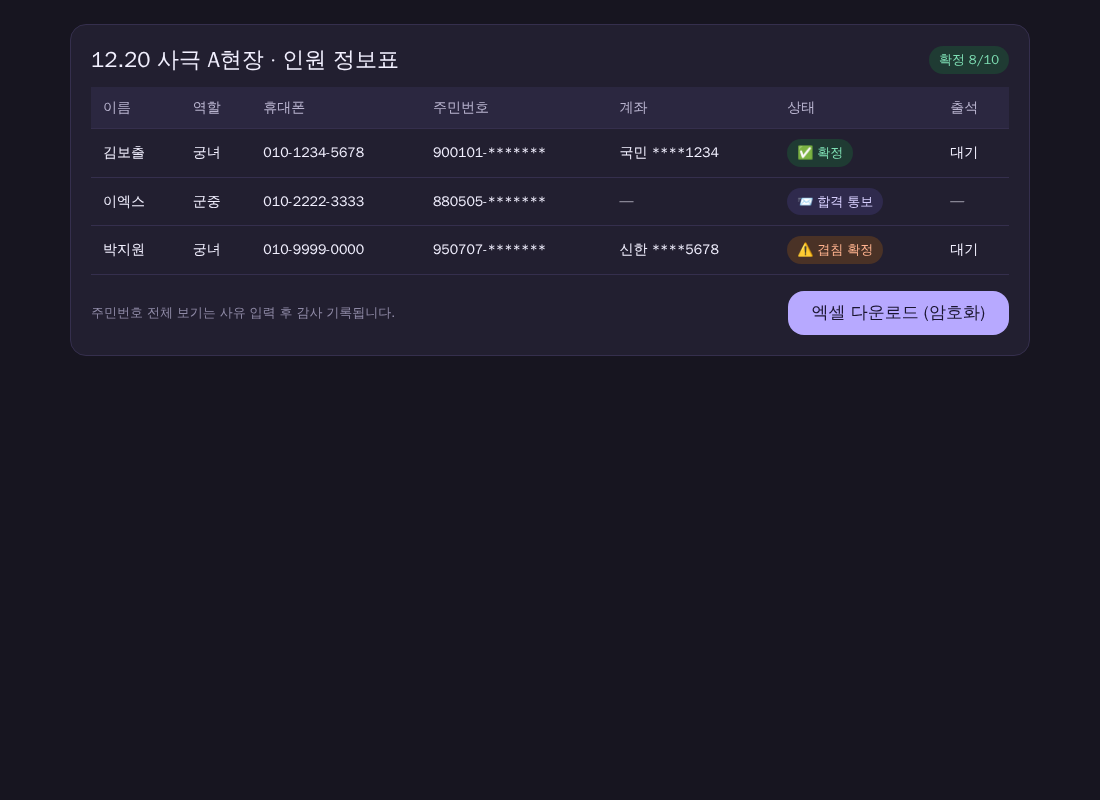
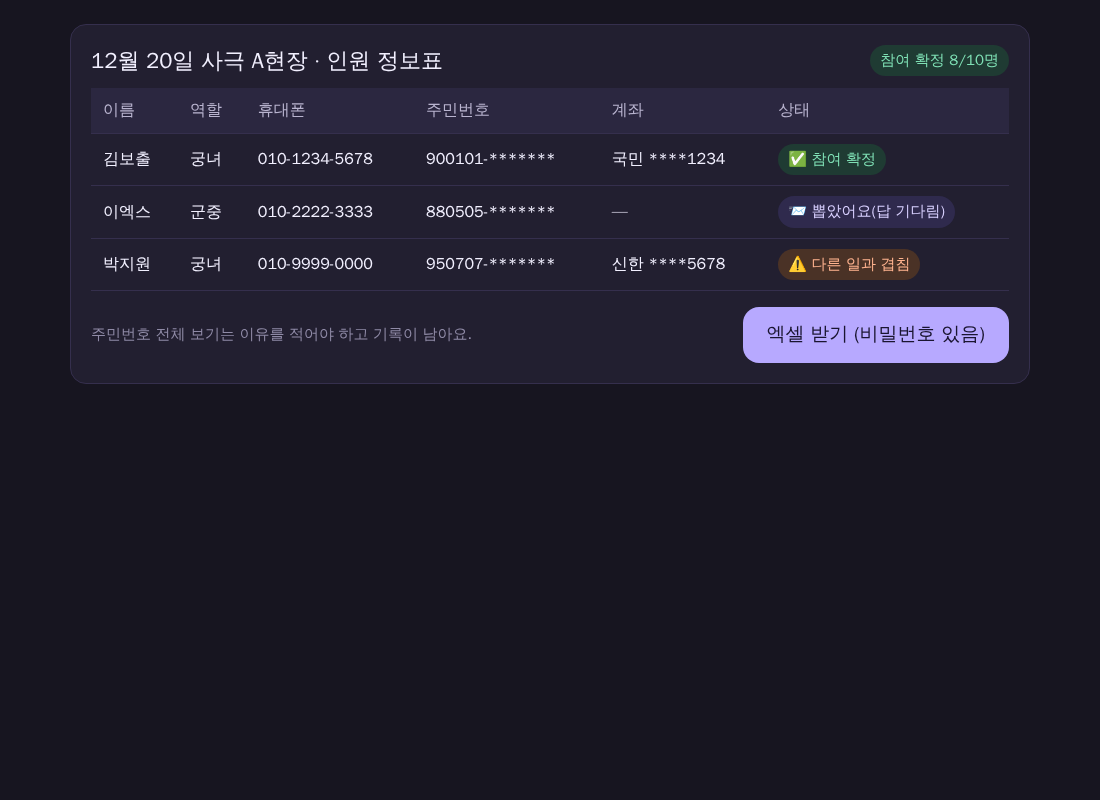
v1.3-b: 합격서 금액 삭제, 시간은 예상(±2h/±4h)·변동 안내, 40~50대 쉬운 말 UI, 가성비/편의성 계획(19), 초기 세션 핵심(20)
Claude-Session: https://claude.ai/code/session_01MWSX96BwTmBifcXMLBXVbn

diff --git a/docs/mockups/app.html b/docs/mockups/app.html
@@ -1,1 +1,1 @@
-<!doctype html><html lang="ko" data-theme="light"><head><meta charset="utf-8"><meta name="viewport" content="width=device-width,initial-scale=1"><title>보조출연 헬프 앱 목업</title><link rel="stylesheet" href="tokens.css"></head><body><main class="grid"><section class="phone" aria-label="🏠 오늘의 공고"><div class="top">🏠 오늘의 공고</div><div class="sub">보조출연 헬프 · 서울 · 12월 20일</div><div class="body"><div class="card"><div class="row"><span class="h">사극 A현장 (가제)</span><span class="chip">모집 3명</span></div><div class="cap" style="margin-top:4px">📍 경기 양주 · 12.20 06:00 집합</div><div class="pay" style="margin-top:12px">시급 10,320원 · 8시간 82,560원</div><div style="margin-top:8px;display:flex;gap:6px;flex-wrap:wrap"><span class=chip>🌙 심야</span><span class=chip>🏕 숙박</span></div></div><div class="card"><div class="row"><span class="h">현대극 B (가제)</span><span class="chip">모집 10명</span></div><div class="cap" style="margin-top:4px">📍 서울 마포 · 12.21 13:00</div><div class="row" style="margin-top:12px"><span class="pay">시급 12,000원</span></div></div><div class="card"><span class="chip ok">✅ 업체 승인</span> <span class="cap">비공개 현장은 합격 후 장소가 보여요</span></div></div><div class="tabbar"><span class="on">🏠<br>홈</span><span>🔎<br>찾기</span><span>📅<br>내 일정</span><span>💬<br>메시지</span><span>🙂<br>MY</span></div></section><section class="phone" aria-label="✍ 지원하기"><div class="top">✍ 지원하기</div><div class="sub">1/3 내 정보 확인</div><div class="body"><div class="steps" style="padding:0"><i class="on"></i><i></i><i></i></div><div class="field"><span>이름</span><b>김보출</b></div><div class="field"><span>휴대폰</span><b>010-****-1234</b></div><div class="field"><span>키 · 몸무게</span><b>172cm · 64kg</b></div><div class="field"><span>계좌</span><b>국민 ****1234</b></div><div class="alert">⚠ 12월 20일 14:00 다른 공고와 시간이 가까워요</div></div><div class="cta"><button class="btn">다음 · 현재 사진 📷</button><button class="btn ghost">저장하고 나중에</button></div></section><section class="phone" aria-label="🖋 전자서명"><div class="top">🖋 전자서명</div><div class="sub">3/3 서명하고 제출</div><div class="body"><div class="steps" style="padding:0"><i class="on"></i><i class="on"></i><i class="on"></i></div><div class="sig">여기에 손가락으로 서명해 주세요</div><div class="card cap">서명은 지원서와 함께 증빙으로 보관돼요(기본 5년). 약관 v3 동의</div></div><div class="cta"><button class="btn">제출하기 ✅</button><button class="btn ghost">다시 쓰기</button></div></section><section class="phone" aria-label="🎉 합격했어요"><div class="top">🎉 합격했어요</div><div class="sub">12시간 안에 확정해 주세요</div><div class="body"><div class="card"><div class="h">사극 A현장 (가제)</div><div class="cap">12.20 06:00 집합 · 양주 ○○주차장</div><div class="row" style="margin-top:12px"><span class="pay">82,560원</span><span class="chip warn">⏰ 11시간 남음</span></div></div><div class="card cap">근로계약서는 현장에서 직접 작성해요. 이 서비스에서는 지원서와 합격서만 보관해요.</div></div><div class="cta"><button class="btn">✅ 확정하기</button><button class="btn ghost">📄 합격서 보기</button></div></section><section class="phone" aria-label="📄 합격서"><div class="top">📄 합격서</div><div class="sub">합격 통보 2026.12.18 09:12</div><div class="body"><div class="card"><div class="cap">업체</div><div class="h">보출A</div><hr style="border:0;border-top:1px solid var(--line);margin:12px 0"><div class="row"><span class="cap">현장</span><b>사극 A현장 (가제)</b></div><div class="row"><span class="cap">일정</span><b>12.20 06:00~18:00</b></div><div class="row"><span class="cap">역할</span><b>궁녀</b></div><div class="row"><span class="cap">보수</span><b>시급 10,320원 (8시간 82,560원)</b></div></div><div class="card cap">이 문서는 근로계약서가 아니에요. 현장에서 별도 작성해요.</div></div><div class="cta"><button class="btn">PDF로 저장 ⬇</button></div></section><section class="phone" aria-label="📲 출퇴근 QR"><div class="top">📲 출퇴근 QR</div><div class="sub">현장에서 업체 직원에게 보여주세요</div><div class="body"><div class="card" style="text-align:center"><div class="qr" role="img" aria-label="출퇴근 QR"></div><span class="chip ok">🔄 30초마다 바뀌어요</span><div class="cap" style="margin-top:8px">세션이 열려 있을 때만 표시돼요</div></div></div><div class="tabbar"><span class="on">🏠<br>홈</span><span>🔎<br>찾기</span><span>📅<br>내 일정</span><span>💬<br>메시지</span><span>🙂<br>MY</span></div></section></main></body></html>
+<!doctype html><html lang="ko" data-theme="light"><head><meta charset="utf-8"><meta name="viewport" content="width=device-width,initial-scale=1"><title>보조출연 헬프 앱 목업</title><link rel="stylesheet" href="tokens.css"></head><body><main class="grid"><section class="phone" aria-label="🏠 일할 곳 찾기"><div class="top">🏠 일할 곳 찾기</div><div class="sub">12월 20일 · 서울·경기</div><div class="body"><div class="card"><div class="h">사극 A현장 (가제)</div><div class="cap" style="margin-top:4px">📍 경기 양주</div><div style="margin-top:8px"><b>아침 6시쯤 모여요 (±2시간)</b></div><div class="pay" style="margin-top:8px">시급 10,320원 (최저시급)</div><div style="margin-top:8px;display:flex;gap:6px;flex-wrap:wrap"><span class=chip>3명 뽑아요</span><span class=chip>🌙 밤 촬영</span><span class=chip>🏕 숙박</span></div></div><div class="card"><div class="h">현대극 B (가제)</div><div class="cap" style="margin-top:4px">📍 서울 마포</div><div style="margin-top:8px"><b>낮 1시쯤 모여요 (±2시간)</b></div><div class="pay" style="margin-top:8px">시급 12,000원</div><div style="margin-top:8px;display:flex;gap:6px;flex-wrap:wrap"><span class=chip>10명 뽑아요</span></div></div><div class="card cap">⚠ 시간은 모두 <b>예상</b>이에요. 확정이 아니고, 촬영 상황에 따라 <b>바뀌거나 늦게 끝날 수 있어요.</b></div></div><div class="tabbar"><span class="on">🏠<br>홈</span><span>🔎<br>찾기</span><span>📅<br>내 일정</span><span>💬<br>메시지</span><span>🙂<br>내 정보</span></div></section><section class="phone" aria-label="✍ 지원하기"><div class="top">✍ 지원하기</div><div class="sub">1단계 / 3단계 · 내 정보 확인</div><div class="body"><div class="steps" style="padding:0"><i class="on"></i><i></i><i></i></div><div class="field"><span>이름</span><b>김보출</b></div><div class="field"><span>휴대폰</span><b>010-****-1234</b></div><div class="field"><span>키 · 몸무게</span><b>172cm · 64kg</b></div><div class="alert">⚠ 같은 날 다른 일과 시간이 가까워요. 그래도 지원할 수 있어요.</div></div><div class="cta"><button class="btn">다음: 내 사진 찍기 📷</button><button class="btn ghost">나중에 이어서 하기</button></div></section><section class="phone" aria-label="🖋 서명하기"><div class="top">🖋 서명하기</div><div class="sub">3단계 / 3단계 · 마지막이에요</div><div class="body"><div class="steps" style="padding:0"><i class="on"></i><i class="on"></i><i class="on"></i></div><div class="sig">손가락으로 이름을 써 주세요</div><div class="card cap">서명과 지원서는 증빙으로 보관돼요(기본 5년).</div></div><div class="cta"><button class="btn">지원 완료하기 ✅</button><button class="btn ghost">다시 쓰기</button></div></section><section class="phone" aria-label="🎉 뽑혔어요!"><div class="top">🎉 뽑혔어요!</div><div class="sub">12시간 안에 “참여할게요”를 눌러 주세요</div><div class="body"><div class="card"><div class="h">사극 A현장 (가제)</div><div class="cap">12월 20일 · 양주 ○○주차장</div><div style="margin-top:8px"><b>아침 6시쯤 모여요 (±2시간)</b></div><span class="chip warn" style="margin-top:8px">⏰ 11시간 남았어요</span></div><div class="card cap">⚠ 시간은 모두 <b>예상</b>이에요. 확정이 아니고, 촬영 상황에 따라 <b>바뀌거나 늦게 끝날 수 있어요.</b></div></div><div class="cta"><button class="btn">✅ 참여할게요</button><button class="btn ghost">📄 합격서 보기</button></div></section><section class="phone" aria-label="📄 합격서"><div class="top">📄 합격서</div><div class="sub">2026년 12월 18일 합격</div><div class="body"><div class="card"><div class="cap">업체</div><div class="h">보출A</div><hr style="border:0;border-top:1px solid var(--line);margin:12px 0"><div class="row"><span class="cap">현장</span><b>사극 A현장 (가제)</b></div><div class="row"><span class="cap">역할</span><b>궁녀</b></div><div class="row"><span class="cap">모이는 때</span><b>12/20 아침 6시쯤 (±2시간)</b></div><div class="row"><span class="cap">끝나는 때</span><b>저녁 6시쯤 (±4시간)</b></div></div><div class="card cap">⚠ 위 시간은 모두 예상이에요. 확정이 아니며 변동될 수 있고 <b>추가로 길어질 수 있어요.</b> 보수는 공고를 확인해 주세요. 근로계약서는 현장에서 따로 써요.</div></div><div class="cta"><button class="btn">PDF로 저장하기 ⬇</button></div></section><section class="phone" aria-label="📲 출근 확인 QR"><div class="top">📲 출근 확인 QR</div><div class="sub">현장 직원에게 보여 주세요</div><div class="body"><div class="card" style="text-align:center"><div class="qr" role="img" aria-label="출근 확인 QR"></div><span class="chip ok">🔄 30초마다 바뀌어요</span><div class="cap" style="margin-top:8px">직원이 출근 확인을 열어야 보여요</div></div><div class="card cap">☎ 도움이 필요하면 <b>고객센터에 전화</b>해 주세요</div></div><div class="tabbar"><span class="on">🏠<br>홈</span><span>🔎<br>찾기</span><span>📅<br>내 일정</span><span>💬<br>메시지</span><span>🙂<br>내 정보</span></div></section></main></body></html>

diff --git a/docs/mockups/app_dark.html b/docs/mockups/app_dark.html
@@ -1,1 +1,1 @@
-<!doctype html><html lang="ko" data-theme="dark"><head><meta charset="utf-8"><meta name="viewport" content="width=device-width,initial-scale=1"><title>보조출연 헬프 앱 목업</title><link rel="stylesheet" href="tokens.css"></head><body><main class="grid"><section class="phone" aria-label="🏠 오늘의 공고"><div class="top">🏠 오늘의 공고</div><div class="sub">보조출연 헬프 · 서울 · 12월 20일</div><div class="body"><div class="card"><div class="row"><span class="h">사극 A현장 (가제)</span><span class="chip">모집 3명</span></div><div class="cap" style="margin-top:4px">📍 경기 양주 · 12.20 06:00 집합</div><div class="pay" style="margin-top:12px">시급 10,320원 · 8시간 82,560원</div><div style="margin-top:8px;display:flex;gap:6px;flex-wrap:wrap"><span class=chip>🌙 심야</span><span class=chip>🏕 숙박</span></div></div><div class="card"><div class="row"><span class="h">현대극 B (가제)</span><span class="chip">모집 10명</span></div><div class="cap" style="margin-top:4px">📍 서울 마포 · 12.21 13:00</div><div class="row" style="margin-top:12px"><span class="pay">시급 12,000원</span></div></div><div class="card"><span class="chip ok">✅ 업체 승인</span> <span class="cap">비공개 현장은 합격 후 장소가 보여요</span></div></div><div class="tabbar"><span class="on">🏠<br>홈</span><span>🔎<br>찾기</span><span>📅<br>내 일정</span><span>💬<br>메시지</span><span>🙂<br>MY</span></div></section><section class="phone" aria-label="✍ 지원하기"><div class="top">✍ 지원하기</div><div class="sub">1/3 내 정보 확인</div><div class="body"><div class="steps" style="padding:0"><i class="on"></i><i></i><i></i></div><div class="field"><span>이름</span><b>김보출</b></div><div class="field"><span>휴대폰</span><b>010-****-1234</b></div><div class="field"><span>키 · 몸무게</span><b>172cm · 64kg</b></div><div class="field"><span>계좌</span><b>국민 ****1234</b></div><div class="alert">⚠ 12월 20일 14:00 다른 공고와 시간이 가까워요</div></div><div class="cta"><button class="btn">다음 · 현재 사진 📷</button><button class="btn ghost">저장하고 나중에</button></div></section><section class="phone" aria-label="🖋 전자서명"><div class="top">🖋 전자서명</div><div class="sub">3/3 서명하고 제출</div><div class="body"><div class="steps" style="padding:0"><i class="on"></i><i class="on"></i><i class="on"></i></div><div class="sig">여기에 손가락으로 서명해 주세요</div><div class="card cap">서명은 지원서와 함께 증빙으로 보관돼요(기본 5년). 약관 v3 동의</div></div><div class="cta"><button class="btn">제출하기 ✅</button><button class="btn ghost">다시 쓰기</button></div></section><section class="phone" aria-label="🎉 합격했어요"><div class="top">🎉 합격했어요</div><div class="sub">12시간 안에 확정해 주세요</div><div class="body"><div class="card"><div class="h">사극 A현장 (가제)</div><div class="cap">12.20 06:00 집합 · 양주 ○○주차장</div><div class="row" style="margin-top:12px"><span class="pay">82,560원</span><span class="chip warn">⏰ 11시간 남음</span></div></div><div class="card cap">근로계약서는 현장에서 직접 작성해요. 이 서비스에서는 지원서와 합격서만 보관해요.</div></div><div class="cta"><button class="btn">✅ 확정하기</button><button class="btn ghost">📄 합격서 보기</button></div></section><section class="phone" aria-label="📄 합격서"><div class="top">📄 합격서</div><div class="sub">합격 통보 2026.12.18 09:12</div><div class="body"><div class="card"><div class="cap">업체</div><div class="h">보출A</div><hr style="border:0;border-top:1px solid var(--line);margin:12px 0"><div class="row"><span class="cap">현장</span><b>사극 A현장 (가제)</b></div><div class="row"><span class="cap">일정</span><b>12.20 06:00~18:00</b></div><div class="row"><span class="cap">역할</span><b>궁녀</b></div><div class="row"><span class="cap">보수</span><b>시급 10,320원 (8시간 82,560원)</b></div></div><div class="card cap">이 문서는 근로계약서가 아니에요. 현장에서 별도 작성해요.</div></div><div class="cta"><button class="btn">PDF로 저장 ⬇</button></div></section><section class="phone" aria-label="📲 출퇴근 QR"><div class="top">📲 출퇴근 QR</div><div class="sub">현장에서 업체 직원에게 보여주세요</div><div class="body"><div class="card" style="text-align:center"><div class="qr" role="img" aria-label="출퇴근 QR"></div><span class="chip ok">🔄 30초마다 바뀌어요</span><div class="cap" style="margin-top:8px">세션이 열려 있을 때만 표시돼요</div></div></div><div class="tabbar"><span class="on">🏠<br>홈</span><span>🔎<br>찾기</span><span>📅<br>내 일정</span><span>💬<br>메시지</span><span>🙂<br>MY</span></div></section></main></body></html>
+<!doctype html><html lang="ko" data-theme="dark"><head><meta charset="utf-8"><meta name="viewport" content="width=device-width,initial-scale=1"><title>보조출연 헬프 앱 목업</title><link rel="stylesheet" href="tokens.css"></head><body><main class="grid"><section class="phone" aria-label="🏠 일할 곳 찾기"><div class="top">🏠 일할 곳 찾기</div><div class="sub">12월 20일 · 서울·경기</div><div class="body"><div class="card"><div class="h">사극 A현장 (가제)</div><div class="cap" style="margin-top:4px">📍 경기 양주</div><div style="margin-top:8px"><b>아침 6시쯤 모여요 (±2시간)</b></div><div class="pay" style="margin-top:8px">시급 10,320원 (최저시급)</div><div style="margin-top:8px;display:flex;gap:6px;flex-wrap:wrap"><span class=chip>3명 뽑아요</span><span class=chip>🌙 밤 촬영</span><span class=chip>🏕 숙박</span></div></div><div class="card"><div class="h">현대극 B (가제)</div><div class="cap" style="margin-top:4px">📍 서울 마포</div><div style="margin-top:8px"><b>낮 1시쯤 모여요 (±2시간)</b></div><div class="pay" style="margin-top:8px">시급 12,000원</div><div style="margin-top:8px;display:flex;gap:6px;flex-wrap:wrap"><span class=chip>10명 뽑아요</span></div></div><div class="card cap">⚠ 시간은 모두 <b>예상</b>이에요. 확정이 아니고, 촬영 상황에 따라 <b>바뀌거나 늦게 끝날 수 있어요.</b></div></div><div class="tabbar"><span class="on">🏠<br>홈</span><span>🔎<br>찾기</span><span>📅<br>내 일정</span><span>💬<br>메시지</span><span>🙂<br>내 정보</span></div></section><section class="phone" aria-label="✍ 지원하기"><div class="top">✍ 지원하기</div><div class="sub">1단계 / 3단계 · 내 정보 확인</div><div class="body"><div class="steps" style="padding:0"><i class="on"></i><i></i><i></i></div><div class="field"><span>이름</span><b>김보출</b></div><div class="field"><span>휴대폰</span><b>010-****-1234</b></div><div class="field"><span>키 · 몸무게</span><b>172cm · 64kg</b></div><div class="alert">⚠ 같은 날 다른 일과 시간이 가까워요. 그래도 지원할 수 있어요.</div></div><div class="cta"><button class="btn">다음: 내 사진 찍기 📷</button><button class="btn ghost">나중에 이어서 하기</button></div></section><section class="phone" aria-label="🖋 서명하기"><div class="top">🖋 서명하기</div><div class="sub">3단계 / 3단계 · 마지막이에요</div><div class="body"><div class="steps" style="padding:0"><i class="on"></i><i class="on"></i><i class="on"></i></div><div class="sig">손가락으로 이름을 써 주세요</div><div class="card cap">서명과 지원서는 증빙으로 보관돼요(기본 5년).</div></div><div class="cta"><button class="btn">지원 완료하기 ✅</button><button class="btn ghost">다시 쓰기</button></div></section><section class="phone" aria-label="🎉 뽑혔어요!"><div class="top">🎉 뽑혔어요!</div><div class="sub">12시간 안에 “참여할게요”를 눌러 주세요</div><div class="body"><div class="card"><div class="h">사극 A현장 (가제)</div><div class="cap">12월 20일 · 양주 ○○주차장</div><div style="margin-top:8px"><b>아침 6시쯤 모여요 (±2시간)</b></div><span class="chip warn" style="margin-top:8px">⏰ 11시간 남았어요</span></div><div class="card cap">⚠ 시간은 모두 <b>예상</b>이에요. 확정이 아니고, 촬영 상황에 따라 <b>바뀌거나 늦게 끝날 수 있어요.</b></div></div><div class="cta"><button class="btn">✅ 참여할게요</button><button class="btn ghost">📄 합격서 보기</button></div></section><section class="phone" aria-label="📄 합격서"><div class="top">📄 합격서</div><div class="sub">2026년 12월 18일 합격</div><div class="body"><div class="card"><div class="cap">업체</div><div class="h">보출A</div><hr style="border:0;border-top:1px solid var(--line);margin:12px 0"><div class="row"><span class="cap">현장</span><b>사극 A현장 (가제)</b></div><div class="row"><span class="cap">역할</span><b>궁녀</b></div><div class="row"><span class="cap">모이는 때</span><b>12/20 아침 6시쯤 (±2시간)</b></div><div class="row"><span class="cap">끝나는 때</span><b>저녁 6시쯤 (±4시간)</b></div></div><div class="card cap">⚠ 위 시간은 모두 예상이에요. 확정이 아니며 변동될 수 있고 <b>추가로 길어질 수 있어요.</b> 보수는 공고를 확인해 주세요. 근로계약서는 현장에서 따로 써요.</div></div><div class="cta"><button class="btn">PDF로 저장하기 ⬇</button></div></section><section class="phone" aria-label="📲 출근 확인 QR"><div class="top">📲 출근 확인 QR</div><div class="sub">현장 직원에게 보여 주세요</div><div class="body"><div class="card" style="text-align:center"><div class="qr" role="img" aria-label="출근 확인 QR"></div><span class="chip ok">🔄 30초마다 바뀌어요</span><div class="cap" style="margin-top:8px">직원이 출근 확인을 열어야 보여요</div></div><div class="card cap">☎ 도움이 필요하면 <b>고객센터에 전화</b>해 주세요</div></div><div class="tabbar"><span class="on">🏠<br>홈</span><span>🔎<br>찾기</span><span>📅<br>내 일정</span><span>💬<br>메시지</span><span>🙂<br>내 정보</span></div></section></main></body></html>

diff --git a/docs/mockups/tokens.css b/docs/mockups/tokens.css
@@ -4,31 +4,32 @@
 [data-theme=dark]{--bg:#171520;--surface:#221F30;--surface-2:#2B2740;--primary:#B7A9FF;--on-primary:#1A1530;--primary-weak:#2F2A4D;--primary-text:#D8D0FF;
 --lav:#4B4380;--peach:#5A3A30;--mint:#24493F;--t1:#F2F0FF;--t2:#B9B4CF;--t3:#8F8AA6;--ok-t:#7FE0B5;--ok-bg:#1F3B33;--warn-t:#FFB38F;--warn-bg:#4A3226;--bad-t:#FF9C95;--bad-bg:#4A2A2A;--line:#352F4D}
 *{box-sizing:border-box;margin:0}
-body{word-break:keep-all;font-family:"Pretendard","Noto Sans KR","WenQuanYi Zen Hei",sans-serif;background:var(--bg);color:var(--t1);font-size:16px;line-height:1.5}
+body{word-break:keep-all;font-family:"Pretendard","Noto Sans KR","WenQuanYi Zen Hei",sans-serif;background:var(--bg);color:var(--t1);font-size:18px;line-height:1.55}
 button{font:inherit;cursor:pointer;border:0}
 .phone{width:360px;min-height:640px;background:var(--bg);border:1px solid var(--line);border-radius:28px;overflow:hidden;display:flex;flex-direction:column;position:relative}
 .top{padding:16px 16px 8px;font-size:22px;font-weight:700;line-height:30px}
-.sub{padding:0 16px;color:var(--t2);font-size:14px}
+.sub{padding:0 16px;color:var(--t2);font-size:16px}
 .body{flex:1;padding:12px 16px 96px;display:flex;flex-direction:column;gap:12px}
 .card{background:var(--surface);border:1px solid var(--line);border-radius:16px;padding:16px}
 .row{display:flex;justify-content:space-between;align-items:center;gap:8px}
-.h{font-size:18px;font-weight:700;line-height:26px}
-.cap{font-size:13px;color:var(--t3)}
+.h{font-size:20px;font-weight:700;line-height:26px}
+.row .cap{white-space:nowrap}
+.cap{font-size:15px;color:var(--t3)}
 .pay{font-size:20px;font-weight:700;color:var(--primary-text)}
-.chip{display:inline-flex;align-items:center;gap:4px;padding:4px 10px;border-radius:999px;font-size:13px;font-weight:600;background:var(--primary-weak);color:var(--primary-text)}
+.chip{display:inline-flex;align-items:center;gap:4px;padding:4px 10px;border-radius:999px;font-size:15px;font-weight:600;background:var(--primary-weak);color:var(--primary-text)}
 .chip.ok{background:var(--ok-bg);color:var(--ok-t)}.chip.warn{background:var(--warn-bg);color:var(--warn-t)}.chip.bad{background:var(--bad-bg);color:var(--bad-t)}
 .cta{position:absolute;left:0;right:0;bottom:0;padding:12px 16px 16px;background:var(--bg);border-top:1px solid var(--line);display:flex;flex-direction:column;gap:8px}
-.btn{height:56px;border-radius:16px;background:var(--primary);color:var(--on-primary);font-size:17px;font-weight:700;width:100%}
-.btn.ghost{background:transparent;color:var(--primary-text);height:44px;font-size:15px}
+.btn{height:56px;border-radius:16px;background:var(--primary);color:var(--on-primary);font-size:19px;font-weight:700;width:100%}
+.btn.ghost{background:transparent;color:var(--primary-text);height:48px;font-size:17px}
 .tabbar{display:flex;border-top:1px solid var(--line);background:var(--surface)}
-.tabbar span{flex:1;text-align:center;padding:8px 0;font-size:12px;color:var(--t2);min-height:48px}
+.tabbar span{flex:1;text-align:center;padding:8px 0;font-size:14px;color:var(--t2);min-height:48px}
 .tabbar .on{color:var(--primary-text);font-weight:700}
 .field{border:1px solid var(--line);background:var(--surface);border-radius:12px;padding:12px 14px;min-height:48px;display:flex;align-items:center;justify-content:space-between}
 .steps{display:flex;gap:6px;padding:0 16px}.steps i{flex:1;height:6px;border-radius:3px;background:var(--line)}.steps i.on{background:var(--primary)}
-.sig{height:120px;border:1.5px dashed var(--lav);border-radius:16px;background:var(--surface);display:flex;align-items:center;justify-content:center;color:var(--t2);font-size:14px}
+.sig{height:120px;border:1.5px dashed var(--lav);border-radius:16px;background:var(--surface);display:flex;align-items:center;justify-content:center;color:var(--t2);font-size:16px}
 .qr{width:200px;height:200px;margin:8px auto;background:repeating-conic-gradient(var(--t1) 0 25%,var(--surface) 0 50%) 0 0/20px 20px;border:12px solid var(--surface);border-radius:12px}
-.alert{background:var(--warn-bg);color:var(--warn-t);border-radius:12px;padding:12px 14px;font-size:14px;font-weight:600}
+.alert{background:var(--warn-bg);color:var(--warn-t);border-radius:12px;padding:12px 14px;font-size:16px;font-weight:600}
 .grid{display:grid;grid-template-columns:repeat(auto-fit,360px);gap:24px;padding:24px;justify-content:center}
 .web{width:960px;background:var(--surface);border:1px solid var(--line);border-radius:16px;margin:24px auto;padding:20px}
-table{width:100%;border-collapse:collapse;font-size:14px}th,td{text-align:left;padding:10px 12px;border-bottom:1px solid var(--line)}th{color:var(--t2);font-weight:600;background:var(--surface-2)}
+table{width:100%;border-collapse:collapse;font-size:16px}th,td{text-align:left;padding:10px 12px;border-bottom:1px solid var(--line)}th{color:var(--t2);font-weight:600;background:var(--surface-2)}
 .ctrl{position:fixed;top:8px;right:8px}

diff --git a/docs/mockups/web.html b/docs/mockups/web.html
@@ -1,6 +1,6 @@
-<!doctype html><html lang="ko" data-theme="light"><head><meta charset="utf-8"><meta name="viewport" content="width=device-width,initial-scale=1"><title>업체 웹 목업</title><link rel="stylesheet" href="tokens.css"></head><body><main><section class="web" aria-label="인원 정보표"><div class="row" style="margin-bottom:12px"><span class="top" style="padding:0">12.20 사극 A현장 · 인원 정보표</span><span class="chip ok">확정 8/10</span></div>
-<table><thead><tr><th>이름</th><th>역할</th><th>휴대폰</th><th>주민번호</th><th>계좌</th><th>상태</th><th>출석</th></tr></thead><tbody>
-<tr><td>김보출</td><td>궁녀</td><td>010-1234-5678</td><td>900101-*******</td><td>국민 ****1234</td><td><span class="chip ok">✅ 확정</span></td><td>대기</td></tr>
-<tr><td>이엑스</td><td>군중</td><td>010-2222-3333</td><td>880505-*******</td><td>—</td><td><span class="chip">📨 합격 통보</span></td><td>—</td></tr>
-<tr><td>박지원</td><td>궁녀</td><td>010-9999-0000</td><td>950707-*******</td><td>신한 ****5678</td><td><span class="chip warn">⚠ 겹침 확정</span></td><td>대기</td></tr></tbody></table>
-<div class="row" style="margin-top:16px"><span class="cap">주민번호 전체 보기는 사유 입력 후 감사 기록됩니다.</span><button class="btn" style="width:auto;padding:0 24px;height:44px">엑셀 다운로드 (암호화)</button></div></section></main></body></html>
+<!doctype html><html lang="ko" data-theme="light"><head><meta charset="utf-8"><meta name="viewport" content="width=device-width,initial-scale=1"><title>업체 웹 목업</title><link rel="stylesheet" href="tokens.css"></head><body><main><section class="web" aria-label="인원 정보표"><div class="row" style="margin-bottom:12px"><span class="top" style="padding:0">12월 20일 사극 A현장 · 인원 정보표</span><span class="chip ok">참여 확정 8/10명</span></div>
+<table><thead><tr><th>이름</th><th>역할</th><th>휴대폰</th><th>주민번호</th><th>계좌</th><th>상태</th></tr></thead><tbody>
+<tr><td>김보출</td><td>궁녀</td><td>010-1234-5678</td><td>900101-*******</td><td>국민 ****1234</td><td><span class="chip ok">✅ 참여 확정</span></td></tr>
+<tr><td>이엑스</td><td>군중</td><td>010-2222-3333</td><td>880505-*******</td><td>—</td><td><span class="chip">📨 뽑았어요(답 기다림)</span></td></tr>
+<tr><td>박지원</td><td>궁녀</td><td>010-9999-0000</td><td>950707-*******</td><td>신한 ****5678</td><td><span class="chip warn">⚠ 다른 일과 겹침</span></td></tr></tbody></table>
+<div class="row" style="margin-top:16px"><span class="cap">주민번호 전체 보기는 이유를 적어야 하고 기록이 남아요.</span><button class="btn" style="width:auto;padding:0 24px">엑셀 받기 (비밀번호 있음)</button></div></section></main></body></html>

diff --git a/docs/mockups/web_dark.html b/docs/mockups/web_dark.html
@@ -1,6 +1,6 @@
-<!doctype html><html lang="ko" data-theme="dark"><head><meta charset="utf-8"><meta name="viewport" content="width=device-width,initial-scale=1"><title>업체 웹 목업</title><link rel="stylesheet" href="tokens.css"></head><body><main><section class="web" aria-label="인원 정보표"><div class="row" style="margin-bottom:12px"><span class="top" style="padding:0">12.20 사극 A현장 · 인원 정보표</span><span class="chip ok">확정 8/10</span></div>
-<table><thead><tr><th>이름</th><th>역할</th><th>휴대폰</th><th>주민번호</th><th>계좌</th><th>상태</th><th>출석</th></tr></thead><tbody>
-<tr><td>김보출</td><td>궁녀</td><td>010-1234-5678</td><td>900101-*******</td><td>국민 ****1234</td><td><span class="chip ok">✅ 확정</span></td><td>대기</td></tr>
-<tr><td>이엑스</td><td>군중</td><td>010-2222-3333</td><td>880505-*******</td><td>—</td><td><span class="chip">📨 합격 통보</span></td><td>—</td></tr>
-<tr><td>박지원</td><td>궁녀</td><td>010-9999-0000</td><td>950707-*******</td><td>신한 ****5678</td><td><span class="chip warn">⚠ 겹침 확정</span></td><td>대기</td></tr></tbody></table>
-<div class="row" style="margin-top:16px"><span class="cap">주민번호 전체 보기는 사유 입력 후 감사 기록됩니다.</span><button class="btn" style="width:auto;padding:0 24px;height:44px">엑셀 다운로드 (암호화)</button></div></section></main></body></html>
+<!doctype html><html lang="ko" data-theme="dark"><head><meta charset="utf-8"><meta name="viewport" content="width=device-width,initial-scale=1"><title>업체 웹 목업</title><link rel="stylesheet" href="tokens.css"></head><body><main><section class="web" aria-label="인원 정보표"><div class="row" style="margin-bottom:12px"><span class="top" style="padding:0">12월 20일 사극 A현장 · 인원 정보표</span><span class="chip ok">참여 확정 8/10명</span></div>
+<table><thead><tr><th>이름</th><th>역할</th><th>휴대폰</th><th>주민번호</th><th>계좌</th><th>상태</th></tr></thead><tbody>
+<tr><td>김보출</td><td>궁녀</td><td>010-1234-5678</td><td>900101-*******</td><td>국민 ****1234</td><td><span class="chip ok">✅ 참여 확정</span></td></tr>
+<tr><td>이엑스</td><td>군중</td><td>010-2222-3333</td><td>880505-*******</td><td>—</td><td><span class="chip">📨 뽑았어요(답 기다림)</span></td></tr>
+<tr><td>박지원</td><td>궁녀</td><td>010-9999-0000</td><td>950707-*******</td><td>신한 ****5678</td><td><span class="chip warn">⚠ 다른 일과 겹침</span></td></tr></tbody></table>
+<div class="row" style="margin-top:16px"><span class="cap">주민번호 전체 보기는 이유를 적어야 하고 기록이 남아요.</span><button class="btn" style="width:auto;padding:0 24px">엑셀 받기 (비밀번호 있음)</button></div></section></main></body></html>

diff --git a/tools/check_mockups.js b/tools/check_mockups.js
@@ -14,9 +14,9 @@ const dir = path.resolve(__dirname, '../docs/mockups'); const shots = process.ar
         const cs = getComputedStyle(el), fg = cs.color, bg = bgOf(el), l1 = lum(fg), l2 = lum(bg), cr = (Math.max(l1, l2) + .05) / (Math.min(l1, l2) + .05);
         const big = parseFloat(cs.fontSize) >= 18.66 || (parseFloat(cs.fontSize) >= 14 && +cs.fontWeight >= 700);
         if (cr < (big ? 3 : 4.5)) out.contrast.push(t.slice(0, 20) + ' ' + cr.toFixed(2));
-        if (parseFloat(cs.fontSize) < 12) out.small.push(t.slice(0, 20));
+        if (parseFloat(cs.fontSize) < 14) out.small.push(t.slice(0, 20));
       });
-      document.querySelectorAll('button').forEach(e => { const r = e.getBoundingClientRect(); if (r.height < 44) out.target.push(e.textContent.slice(0, 15) + ' ' + r.height) });
+      document.querySelectorAll('button').forEach(e => { const r = e.getBoundingClientRect(); if (r.height < 48) out.target.push(e.textContent.slice(0, 15) + ' ' + r.height) });
       return out;
     });
     const n = r.contrast.length + r.small.length + r.target.length + (r.overflow ? 1 : 0); bad += n;

diff --git a/tools/build_mockups.py b/tools/build_mockups.py
@@ -1,0 +1,36 @@
+#!/usr/bin/env python3
+"""docs/mockups/*.html 생성기 (쉬운 말 UI 시안). 실행: python3 tools/build_mockups.py"""
+import os
+D=os.path.join(os.path.dirname(__file__),'..','docs','mockups')
+def phone(title,sub,body,cta=None,tab=True):
+    c=f'<div class="cta">{cta}</div>' if cta else ''
+    t='<div class="tabbar"><span class="on">🏠<br>홈</span><span>🔎<br>찾기</span><span>📅<br>내 일정</span><span>💬<br>메시지</span><span>🙂<br>내 정보</span></div>' if tab else ''
+    return f'<section class="phone" aria-label="{title}"><div class="top">{title}</div><div class="sub">{sub}</div><div class="body">{body}</div>{c}{t}</section>'
+NOTICE='<div class="card cap">⚠ 시간은 모두 <b>예상</b>이에요. 확정이 아니고, 촬영 상황에 따라 <b>바뀌거나 늦게 끝날 수 있어요.</b></div>'
+def job(t,pay,chips,place,when):
+    return f'<div class="card"><div class="h">{t}</div><div class="cap" style="margin-top:4px">📍 {place}</div><div style="margin-top:8px"><b>{when}</b></div><div class="pay" style="margin-top:8px">{pay}</div><div style="margin-top:8px;display:flex;gap:6px;flex-wrap:wrap">{"".join(f"<span class=chip>{x}</span>" for x in chips)}</div></div>'
+P=[]
+P.append(phone('🏠 일할 곳 찾기','12월 20일 · 서울·경기',
+ job('사극 A현장 (가제)','시급 10,320원 (최저시급)',['3명 뽑아요','🌙 밤 촬영','🏕 숙박'],'경기 양주','아침 6시쯤 모여요 (±2시간)')+
+ job('현대극 B (가제)','시급 12,000원',['10명 뽑아요'],'서울 마포','낮 1시쯤 모여요 (±2시간)')+NOTICE))
+P.append(phone('✍ 지원하기','1단계 / 3단계 · 내 정보 확인',
+ '<div class="steps" style="padding:0"><i class="on"></i><i></i><i></i></div><div class="field"><span>이름</span><b>김보출</b></div><div class="field"><span>휴대폰</span><b>010-****-1234</b></div><div class="field"><span>키 · 몸무게</span><b>172cm · 64kg</b></div><div class="alert">⚠ 같은 날 다른 일과 시간이 가까워요. 그래도 지원할 수 있어요.</div>',
+ '<button class="btn">다음: 내 사진 찍기 📷</button><button class="btn ghost">나중에 이어서 하기</button>',False))
+P.append(phone('🖋 서명하기','3단계 / 3단계 · 마지막이에요','<div class="steps" style="padding:0"><i class="on"></i><i class="on"></i><i class="on"></i></div><div class="sig">손가락으로 이름을 써 주세요</div><div class="card cap">서명과 지원서는 증빙으로 보관돼요(기본 5년).</div>',
+ '<button class="btn">지원 완료하기 ✅</button><button class="btn ghost">다시 쓰기</button>',False))
+P.append(phone('🎉 뽑혔어요!','12시간 안에 “참여할게요”를 눌러 주세요',
+ '<div class="card"><div class="h">사극 A현장 (가제)</div><div class="cap">12월 20일 · 양주 ○○주차장</div><div style="margin-top:8px"><b>아침 6시쯤 모여요 (±2시간)</b></div><span class="chip warn" style="margin-top:8px">⏰ 11시간 남았어요</span></div>'+NOTICE,
+ '<button class="btn">✅ 참여할게요</button><button class="btn ghost">📄 합격서 보기</button>',False))
+P.append(phone('📄 합격서','2026년 12월 18일 합격','<div class="card"><div class="cap">업체</div><div class="h">보출A</div><hr style="border:0;border-top:1px solid var(--line);margin:12px 0"><div class="row"><span class="cap">현장</span><b>사극 A현장 (가제)</b></div><div class="row"><span class="cap">역할</span><b>궁녀</b></div><div class="row"><span class="cap">모이는 때</span><b>12/20 아침 6시쯤 (±2시간)</b></div><div class="row"><span class="cap">끝나는 때</span><b>저녁 6시쯤 (±4시간)</b></div></div><div class="card cap">⚠ 위 시간은 모두 예상이에요. 확정이 아니며 변동될 수 있고 <b>추가로 길어질 수 있어요.</b> 보수는 공고를 확인해 주세요. 근로계약서는 현장에서 따로 써요.</div>',
+ '<button class="btn">PDF로 저장하기 ⬇</button>',False))
+P.append(phone('📲 출근 확인 QR','현장 직원에게 보여 주세요','<div class="card" style="text-align:center"><div class="qr" role="img" aria-label="출근 확인 QR"></div><span class="chip ok">🔄 30초마다 바뀌어요</span><div class="cap" style="margin-top:8px">직원이 출근 확인을 열어야 보여요</div></div><div class="card cap">☎ 도움이 필요하면 <b>고객센터에 전화</b>해 주세요</div>',None))
+def page(theme,title,body): return f'<!doctype html><html lang="ko" data-theme="{theme}"><head><meta charset="utf-8"><meta name="viewport" content="width=device-width,initial-scale=1"><title>{title}</title><link rel="stylesheet" href="tokens.css"></head><body>{body}</body></html>'
+for th,sfx in(('light',''),('dark','_dark')):
+    open(f'{D}/app{sfx}.html','w',encoding='utf-8').write(page(th,'보조출연 헬프 앱 목업',f'<main class="grid">{"".join(P)}</main>'))
+web='''<main><section class="web" aria-label="인원 정보표"><div class="row" style="margin-bottom:12px"><span class="top" style="padding:0">12월 20일 사극 A현장 · 인원 정보표</span><span class="chip ok">참여 확정 8/10명</span></div>
+<table><thead><tr><th>이름</th><th>역할</th><th>휴대폰</th><th>주민번호</th><th>계좌</th><th>상태</th></tr></thead><tbody>
+<tr><td>김보출</td><td>궁녀</td><td>010-1234-5678</td><td>900101-*******</td><td>국민 ****1234</td><td><span class="chip ok">✅ 참여 확정</span></td></tr>
+<tr><td>이엑스</td><td>군중</td><td>010-2222-3333</td><td>880505-*******</td><td>—</td><td><span class="chip">📨 뽑았어요(답 기다림)</span></td></tr>
+<tr><td>박지원</td><td>궁녀</td><td>010-9999-0000</td><td>950707-*******</td><td>신한 ****5678</td><td><span class="chip warn">⚠ 다른 일과 겹침</span></td></tr></tbody></table>
+<div class="row" style="margin-top:16px"><span class="cap">주민번호 전체 보기는 이유를 적어야 하고 기록이 남아요.</span><button class="btn" style="width:auto;padding:0 24px">엑셀 받기 (비밀번호 있음)</button></div></section></main>'''
+for th,sfx in(('light',''),('dark','_dark')): open(f'{D}/web{sfx}.html','w',encoding='utf-8').write(page(th,'업체 웹 목업',web))

diff --git a/tools/spec/reqs.py b/tools/spec/reqs.py
@@ -109,8 +109,10 @@ REQS = [
   ('REQ-NFR11', '비기능', '다크 모드', '앱·웹 모두 라이트/다크 테마(시스템 설정 연동).', 'P1', 'U', '토큰 대비 4.5:1 이상'),
   ('REQ-NFR12', '비기능', '클라이언트 범위', 'Android 앱(Flutter) 우선, iPhone 은 같은 Flutter 코드의 웹(PWA). **Flutter Wasm 빌드는 iOS 브라우저에서 동작하지 않으므로 기본(CanvasKit) 빌드를 사용**하고, 오픈 전 iPhone 실기기 검증 게이트(로드 시간·입력·카메라·서명·QR 표시)를 통과해야 한다. 업체/관리자는 React 웹.', 'P1', 'U', '동일 API, 동일 디자인 토큰'),
   ('REQ-NFR13', '비기능', 'iPhone 홈 화면 추가 안내·푸시 권한 유도', 'iPhone Safari 접속 시 홈 화면 추가 방법을 안내하고, 설치 후 사용자 동작(버튼)으로 알림 권한을 요청한다. 푸시 상태 점검 화면 제공.', 'P1', 'U', '설치/권한 상태가 서버에 보고되고 미설치자는 안내를 받음'),
-  ('REQ-PC16', '합격 이후', '합격서(합격 통보서) 조회·PDF', '지원서와 짝이 되는 합격서를 제공한다(업체명·현장·일정·역할·시급·집합 장소·합격 일시, 합격 통보→확정 기록). 근로계약서는 현장에서 실물로 작성·교부하므로 이 서비스에서 만들지 않는다.', 'P1', 'U', '합격 통보 후 출연자·업체가 합격서를 보고 PDF(OFFER_LETTER)로 받음, 근로계약서 기능 없음'),
+  ('REQ-PC16', '합격 이후', '합격서(합격 통보서) 조회·PDF', '지원서와 짝이 되는 합격서를 제공한다. **금액(보수)은 넣지 않는다**(보수는 공고에만 있음). 집합 시간은 예상(±2시간), 종료 시간은 예상(±4시간)으로 표시하고, "시간은 모두 예상이며 확정이 아니고 변동·추가 연장이 가능합니다"를 항상 함께 적는다. 근로계약서는 현장에서 실물로 작성·교부하므로 만들지 않는다.', 'P1', 'U', '합격서에 금액 항목 없음, 시간 옆 예상 문구와 하단 안내 문구 존재, 근로계약서 기능 없음'),
   ('REQ-PC17', '합격 이후', '지급 관련 기능은 개발하되 숨김', '정산 기록·은행 이체 파일·원천징수 자료는 개발하되 feature_flags 로 기본 OFF. 플랫폼은 임금을 받거나 보관하거나 대신 송금하지 않으며(업체가 자기 계좌에서 출연자 본인 계좌로 직접 지급), 지급 완료는 업체가 기록한다. 송금 실행(PAYOUT_EXECUTION)은 설계만 한다.', 'P1', 'U', '플래그 OFF 시 해당 API 404/메뉴 미노출, 켜려면 ADMIN 의 FLAG_MANAGE + 감사 기록, 법무 확인 필요 표시'),
   ('REQ-AD30', '관리자', '기능 플래그 관리', '관리자가 feature_flags 를 조회·켜고 끈다(법무 확인 필요 항목은 확인 문구 후 변경, 감사 기록).', 'P1', 'U', '변경 즉시 반영, audit_logs 기록'),
   ('REQ-NFR14', '비기능', '개발·운영 환경', '개발 DB 는 개발자 노트북 WSL2 의 Docker Postgres, 운영은 AWS Lightsail 서울 단일 서버에 Docker Compose + Cloudflare(터널 또는 80/443 만 개방). 집·노트북 포트포워딩 금지, 운영 DB 포트 비공개, SSH 키 전용, 백업 R2.', 'P1', 'U', '운영 서버 외부 개방 포트가 80/443(또는 0개), DB/Redis 외부 접속 불가, 복구 리허설 완료'),
+  ('REQ-J12', '공고', '시간은 예상으로 표시', '공고에는 정확한 시간을 쓰지 않는다. **집합 시간은 ±2시간, 종료 시간은 ±4시간(기본값, 업체가 조정)** 으로 "예상"이라고 표시하고, "확정이 아니며 변동·추가 연장 가능" 안내를 항상 보여준다. 내부 시각(start_at/end_at)은 겹침·QR 계산용으로만 쓴다. 보수는 시급(최저시급 옵션)만 공고에 적는다.', 'P1', 'U', '공고·합격서 화면에 정확한 종료 시각이 없고 안내 문구가 있음'),
+  ('REQ-NFR15', '비기능', '40~50대도 쓰는 쉬운 한국어 UI', '글씨 기본 18px 이상·보조 15px 이상, 버튼 56px, 한 화면 한 가지 일, 어려운 용어 대신 쉬운 말(예: 합격 통보→"뽑혔어요", 확정→"참여할게요"), 글씨 크게 보기, 전화·문자 문의 안내, 오류는 "무엇을 하면 되는지"로 안내.', 'P1', 'U', '용어 사전(19번) 준수, 목업 자동 점검(글자 크기·터치) 통과, 40~50대 시험 사용자 3명 중 도움 없이 지원 완료'),
 ]

diff --git a/tools/spec/funcs.py b/tools/spec/funcs.py
@@ -110,8 +110,9 @@ FUNCS = [
   ('F-SY11', '결제·유료 노출(설계만)', 'PG 정기결제·크레딧·인재검색·긴급 상단 — 14번 문서', ['REQ-MON03', 'REQ-MON04'], '관리자', 'P3', [], [], ['PGM-B16']),
   ('F-SY12', '클라이언트 구성', 'Android 앱 + 동일 코드 웹(iPhone PWA) + 업체/관리자 React 웹, 공통 토큰', ['REQ-NFR12'], '시스템', 'P1', [], [], ['PGM-M01', 'PGM-W07']),
   ('F-SY13', '기능 플래그', 'feature_flags 조회·변경, 꺼진 기능 API 는 404, 메뉴 미노출, 변경 감사', ['REQ-AD30', 'REQ-PC17'], '관리자', 'P1', ['SCR-M17'], ['API-MS06', 'API-AD25'], ['PGM-B14', 'PGM-B16']),
-  ('F-OP17', '합격서 조회·PDF', '합격 통보 후 합격서 화면과 PDF 생성(OFFER_LETTER), 지원서 PDF 와 한 쌍', ['REQ-PC16'], '출연자·업체', 'P1', ['SCR-H35', 'SCR-C26'], ['API-OP27'], ['PGM-B04', 'PGM-B10']),
+  ('F-OP17', '합격서 조회·PDF', '금액 없는 합격서: 집합 ±2h·종료 ±4h 예상 시간 + 변동·연장 가능 안내, PDF(OFFER_LETTER)', ['REQ-PC16', 'REQ-J12'], '출연자·업체', 'P1', ['SCR-H35', 'SCR-C26'], ['API-OP27'], ['PGM-B04', 'PGM-B10']),
   ('F-OP18', '이체 배치(숨김)', '정산 건을 묶어 은행 이체 파일 생성·지급 확인 기록, 예금주=본인 이름 경고. 플랫폼은 송금하지 않음', ['REQ-PC17', 'REQ-PC10'], '업체', 'P2', ['SCR-C27'], ['API-OP28', 'API-OP29', 'API-OP30'], ['PGM-B09']),
   ('F-OP19', '송금 실행(설계만, 구현 안 함)', 'PAYOUT_EXECUTION — 구현하지 않고 법무·전자금융업 검토 후 결정', ['REQ-PC17'], '업체', 'P1', [], [], ['PGM-B09']),
   ('F-SY14', '개발·운영 환경 기준', 'WSL2 개발 환경, Lightsail 운영, 방화벽 80/443 또는 터널, DB 비공개, 백업 — 12·18번 문서', ['REQ-NFR14'], '시스템', 'P1', [], [], ['PGM-B17']),
+  ('F-SY15', '쉬운 말 UI 기준', '용어 사전·큰 글씨·전화 문의 안내를 디자인 토큰과 문구 리소스로 강제', ['REQ-NFR15'], '시스템', 'P1', [], [], ['PGM-M01', 'PGM-W07']),
 ]

diff --git a/tools/spec/apis.py b/tools/spec/apis.py
@@ -151,7 +151,7 @@ APIS = [
   ('API-AD24', 'PUT', '/admin/export-templates/{code}', '엑셀 양식 편집', 'ADM', '{name,kind,bankCode,columns[]}', 'export_templates,audit_logs', ''),
   ('API-MS06', 'GET', '/features', '공개 기능 플래그 목록(클라이언트 메뉴 숨김용)', 'PUB', '→ {code:enabled} (법무 메모 제외)', 'feature_flags', ''),
   ('API-AD25', 'PUT', '/admin/feature-flags/{code}', '기능 플래그 변경', 'ADM', '{enabled,confirmLegal:true}', 'feature_flags,audit_logs', '403 FLAG_MANAGE 없음, 법무 확인 필요 항목은 confirmLegal 필수'),
-  ('API-OP27', 'GET', '/me/applications/{id}/offer', '합격서 조회·PDF', 'ACTOR', '→ 합격서 JSON, ?format=pdf → 서명 URL', 'applications,files,file_attachments', '합격 통보(SELECTED) 이후만; 업체는 /company/applications/{id}/offer'),
+  ('API-OP27', 'GET', '/me/applications/{id}/offer', '합격서 조회·PDF(금액 없음)', 'ACTOR', '→ 합격서 JSON, ?format=pdf → 서명 URL', 'applications,files,file_attachments', '합격 통보(SELECTED) 이후만; 업체는 /company/applications/{id}/offer'),
   ('API-OP28', 'POST', '/company/payout-batches', '이체 배치 생성(SETTLEMENT/BANK_TRANSFER_FILE 플래그)', 'CMP-M', '{scheduleId,templateCode,settlementIds[]}', 'payout_batches,payout_batch_items,settlements', '플래그 OFF 시 404, 예금주 불일치 경고 포함'),
   ('API-OP29', 'GET', '/company/payout-batches/{id}/file.xlsx', '이체 파일 다운로드', 'CMP-M', '→ 암호화 xlsx(계좌 복호화는 이 순간만)', 'payout_batches,export_templates,audit_logs', ''),
   ('API-OP30', 'POST', '/company/payout-batches/{id}/confirm-paid', '업체의 지급 완료 확인 기록', 'CMP-M', '{paidAt,reference}', 'payout_batches,settlements,audit_logs', '플랫폼은 송금하지 않으며 기록만 한다'),

diff --git a/tools/spec/screens.py b/tools/spec/screens.py
@@ -92,7 +92,7 @@ SCREENS = [
   ('SCR-C25', 'WEB', '현장/메시지함', '메시지함', 'P1', '스레드 목록·답장 확인'),
   ('SCR-M15', 'ADM', '마스터', '연도별 최저시급 관리', 'P1', '연도·시급·시행일 등록'),
   ('SCR-M16', 'ADM', '마스터', '엑셀 양식 관리', 'P2', '인원표/은행 대량이체/원천징수 양식 컬럼 정의'),
-  ('SCR-H35', 'APP', '내 일정/합격', '합격서', 'P1', '합격 통보 후 합격서 조회·PDF 저장'),
+  ('SCR-H35', 'APP', '내 일정/합격', '합격서', 'P1', '합격 후 합격서(금액 없음, 예상 시간·변동 안내) 조회·PDF 저장'),
   ('SCR-C26', 'WEB', '지원자/합격', '합격서 보기', 'P1', '합격 처리한 지원자의 합격서·지원서 PDF 한 쌍'),
   ('SCR-C27', 'WEB', '현장/정산(숨김)', '이체 배치', 'P2', '플래그 ON 일 때만 노출: 이체 파일 생성·지급 확인 기록'),
   ('SCR-M17', 'ADM', '운영', '기능 플래그 관리', 'P1', '기능 켜기/끄기, 법무 확인 필요 표시, 변경 이력'),

diff --git a/docs/01_요구사항정의서.md b/docs/01_요구사항정의서.md
@@ -2,7 +2,7 @@
 > 이 문서는 `tools/spec/*.py` 와 `db/schema.sql` 에서 `python3 tools/build_docs.py` 로 **자동 생성**된다. 직접 수정하지 말고 원천 데이터를 고칠 것.
 > 버전 v1.0 · 기준일 2026-10-28
 
-총 **113**건 (P1 99 / P2 7 / P3 7)
+총 **115**건 (P1 101 / P2 7 / P3 7)
 
 출처 구분: **사용자 요구**(운영 당사자 요구), **검토 반영**(도메인·상용 검토), **법·보안**, **확장 대비**.
 
@@ -54,6 +54,7 @@
 | REQ-J09 | 역할별 집결 시간·장소 | 역할마다 집합 시간/장소를 일자 기본값과 다르게 지정한다. | P1 | 사용자 요구 | 미지정 시 일자 값 사용 |
 | REQ-J10 | 시급·최저시급·비고 | 보수는 시급제. '최저시급' 선택 시 **근무 시작일이 속한 연도**의 최저시급 자동 입력(2026=10,320원, 2027=10,700원). 근무 9시간 이내는 최저시급×8시간 고정, 초과 시 시급×근무시간. 연도 경계를 넘는 일정은 날짜별 연도 시급 적용. 식대(아침·점심·저녁) 등은 비고에 자유 기재. | P1 | 사용자 요구 | 연도별 최저시급 테이블에서 자동 채움, 정산 계산 규칙과 일치 |
 | REQ-J11 | 법정 최저시급 미만 입력 차단 | '직접 입력' 시급도 근무 시작일 연도의 최저시급 이상이어야 한다(최저임금법 준수). 미만이면 저장·게시 거부. | P1 | 법·보안 | 최저시급 미만 입력 시 422 BELOW_MIN_WAGE |
+| REQ-J12 | 시간은 예상으로 표시 | 공고에는 정확한 시간을 쓰지 않는다. **집합 시간은 ±2시간, 종료 시간은 ±4시간(기본값, 업체가 조정)** 으로 "예상"이라고 표시하고, "확정이 아니며 변동·추가 연장 가능" 안내를 항상 보여준다. 내부 시각(start_at/end_at)은 겹침·QR 계산용으로만 쓴다. 보수는 시급(최저시급 옵션)만 공고에 적는다. | P1 | 사용자 요구 | 공고·합격서 화면에 정확한 종료 시각이 없고 안내 문구가 있음 |
 
 ## 탐색
 | ID | 요구사항 | 설명 | 우선 | 출처 | 인수 기준 |
@@ -106,7 +107,7 @@
 | REQ-PC12 | 합격자 상세 정보 공개 | 합격자에게 비공개 현장의 실제 작품명·상세 장소·반장 연락처를 공개. | P1 | 검토 반영 | CONFIRMED 만 상세 필드 포함 |
 | REQ-PC13 | 상호 연락처 공개 | 합격 후 출연자는 업체/반장 번호를, 업체는 출연자 번호를 확인하고 전화/문자. | P1 | 사용자 요구 | 합격 전에는 양쪽 모두 비공개 |
 | REQ-PC15 | 증빙 보관 | 지원서(서명·사진·스냅샷)·출결·정산·메시지 이력을 보존기간 동안 보관하고 분쟁 시 보류한다. 근로 서류는 근로기준법 제42조 3년(근로계약서=근로관계 종료일부터, 임금대장=마지막 기재일부터) 이상, 기본 5년. | P1 | 사용자 요구 | 보존기간 설정(기본 5년), 법적 보류 플래그 |
-| REQ-PC16 | 합격서(합격 통보서) 조회·PDF | 지원서와 짝이 되는 합격서를 제공한다(업체명·현장·일정·역할·시급·집합 장소·합격 일시, 합격 통보→확정 기록). 근로계약서는 현장에서 실물로 작성·교부하므로 이 서비스에서 만들지 않는다. | P1 | 사용자 요구 | 합격 통보 후 출연자·업체가 합격서를 보고 PDF(OFFER_LETTER)로 받음, 근로계약서 기능 없음 |
+| REQ-PC16 | 합격서(합격 통보서) 조회·PDF | 지원서와 짝이 되는 합격서를 제공한다. **금액(보수)은 넣지 않는다**(보수는 공고에만 있음). 집합 시간은 예상(±2시간), 종료 시간은 예상(±4시간)으로 표시하고, "시간은 모두 예상이며 확정이 아니고 변동·추가 연장이 가능합니다"를 항상 함께 적는다. 근로계약서는 현장에서 실물로 작성·교부하므로 만들지 않는다. | P1 | 사용자 요구 | 합격서에 금액 항목 없음, 시간 옆 예상 문구와 하단 안내 문구 존재, 근로계약서 기능 없음 |
 | REQ-PC17 | 지급 관련 기능은 개발하되 숨김 | 정산 기록·은행 이체 파일·원천징수 자료는 개발하되 feature_flags 로 기본 OFF. 플랫폼은 임금을 받거나 보관하거나 대신 송금하지 않으며(업체가 자기 계좌에서 출연자 본인 계좌로 직접 지급), 지급 완료는 업체가 기록한다. 송금 실행(PAYOUT_EXECUTION)은 설계만 한다. | P1 | 사용자 요구 | 플래그 OFF 시 해당 API 404/메뉴 미노출, 켜려면 ADMIN 의 FLAG_MANAGE + 감사 기록, 법무 확인 필요 표시 |
 
 ## 알림
@@ -170,6 +171,7 @@
 | REQ-NFR12 | 클라이언트 범위 | Android 앱(Flutter) 우선, iPhone 은 같은 Flutter 코드의 웹(PWA). **Flutter Wasm 빌드는 iOS 브라우저에서 동작하지 않으므로 기본(CanvasKit) 빌드를 사용**하고, 오픈 전 iPhone 실기기 검증 게이트(로드 시간·입력·카메라·서명·QR 표시)를 통과해야 한다. 업체/관리자는 React 웹. | P1 | 사용자 요구 | 동일 API, 동일 디자인 토큰 |
 | REQ-NFR13 | iPhone 홈 화면 추가 안내·푸시 권한 유도 | iPhone Safari 접속 시 홈 화면 추가 방법을 안내하고, 설치 후 사용자 동작(버튼)으로 알림 권한을 요청한다. 푸시 상태 점검 화면 제공. | P1 | 사용자 요구 | 설치/권한 상태가 서버에 보고되고 미설치자는 안내를 받음 |
 | REQ-NFR14 | 개발·운영 환경 | 개발 DB 는 개발자 노트북 WSL2 의 Docker Postgres, 운영은 AWS Lightsail 서울 단일 서버에 Docker Compose + Cloudflare(터널 또는 80/443 만 개방). 집·노트북 포트포워딩 금지, 운영 DB 포트 비공개, SSH 키 전용, 백업 R2. | P1 | 사용자 요구 | 운영 서버 외부 개방 포트가 80/443(또는 0개), DB/Redis 외부 접속 불가, 복구 리허설 완료 |
+| REQ-NFR15 | 40~50대도 쓰는 쉬운 한국어 UI | 글씨 기본 18px 이상·보조 15px 이상, 버튼 56px, 한 화면 한 가지 일, 어려운 용어 대신 쉬운 말(예: 합격 통보→"뽑혔어요", 확정→"참여할게요"), 글씨 크게 보기, 전화·문자 문의 안내, 오류는 "무엇을 하면 되는지"로 안내. | P1 | 사용자 요구 | 용어 사전(19번) 준수, 목업 자동 점검(글자 크기·터치) 통과, 40~50대 시험 사용자 3명 중 도움 없이 지원 완료 |
 
 ## 확정된 운영 정책 (사용자 확정 사항, v1.1)
 
